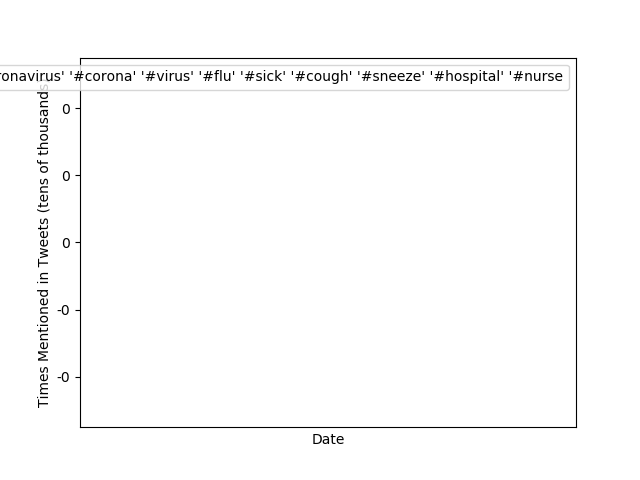
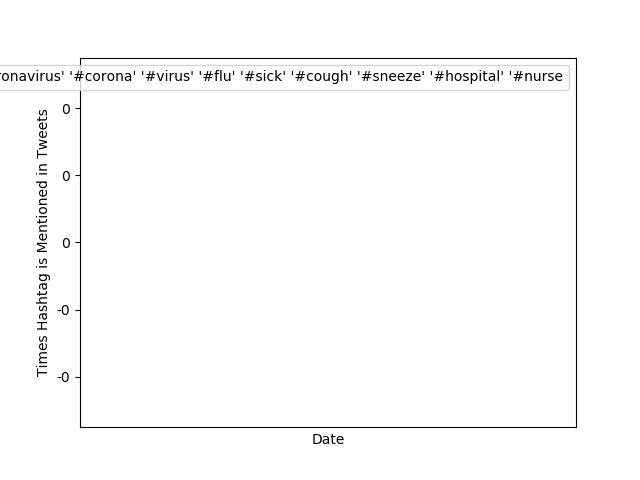
new list2

Changed region(s): [[0.0625, 0.1875, 0.0938, 0.8438]]

diff --git a/src/alternative_reduce.py b/src/alternative_reduce.py
@@ -74,7 +74,7 @@ y_format = mtick.FuncFormatter(lambda x, pos: '{:,.0f}'.format(x/100000))
 ax.xaxis.set_major_locator(mdates.MonthLocator(bymonthday=1, bymonth=range(0, 13, 2)))
 ax.yaxis.set_major_formatter(y_format)
 ax.set_xlabel('Date')
-ax.set_ylabel('Times Mentioned in Tweets (tens of thousands)')
+ax.set_ylabel('Times Hashtag is Mentioned in Tweets')
 ax.legend()
 
 # save plot
